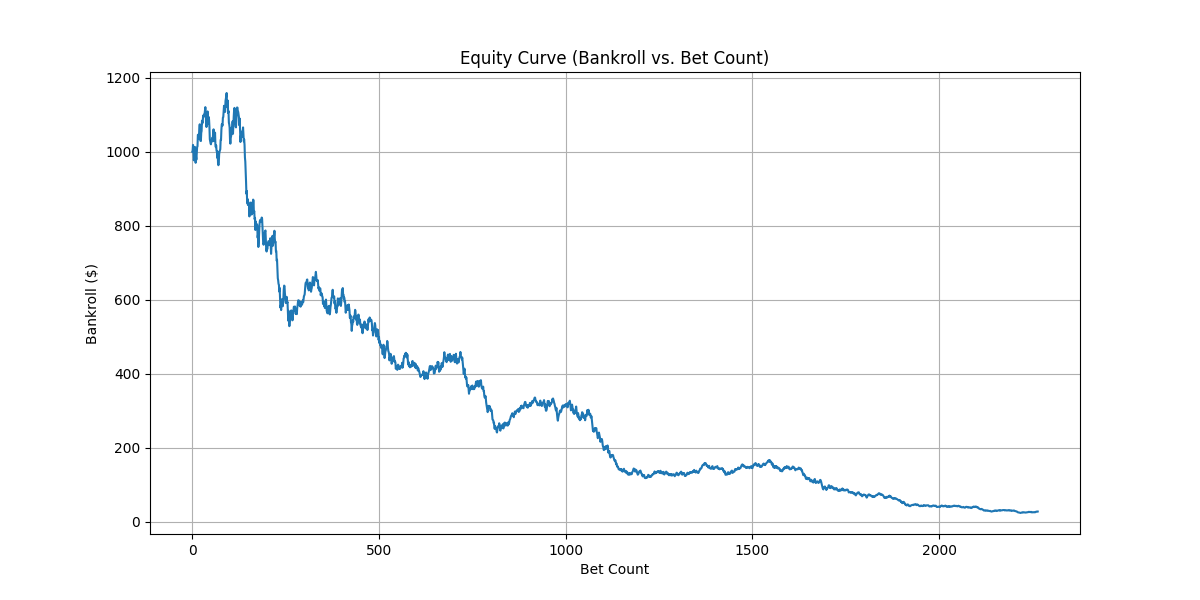
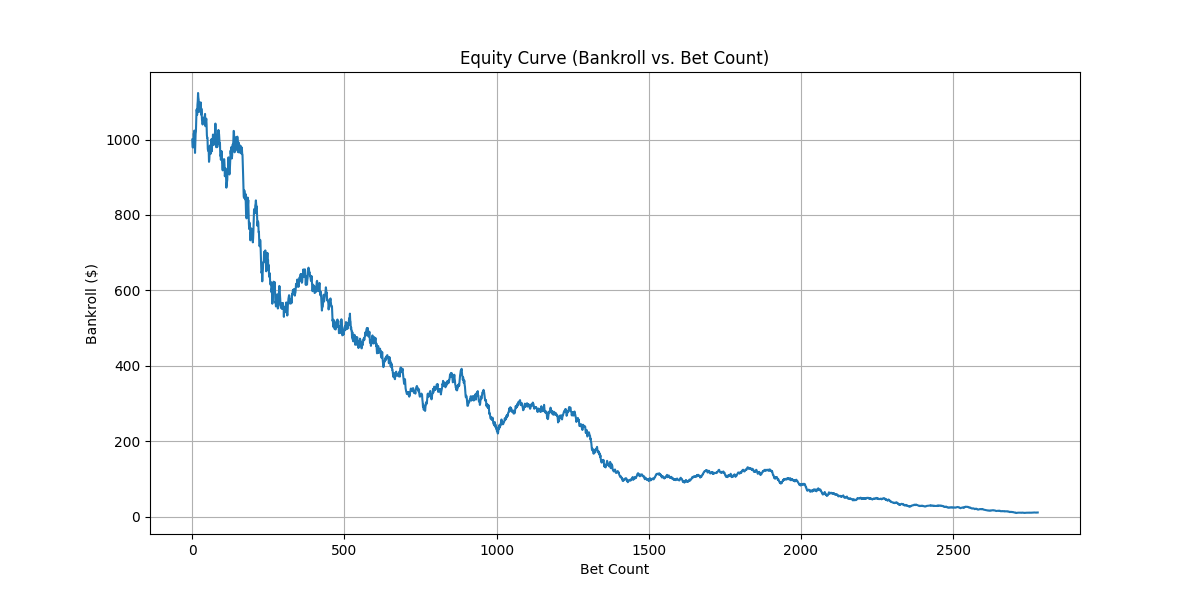
Fix data pipeline and remove redundant feature
Changes:
1. Fixed selective dropna() - only drop rows missing critical columns
   (odds/outcome), not all rows with any NaN. Recovered ~2,100 matches.

2. Removed Elo_Diff feature (0.765 correlation with Glicko_Mu_Diff).
   Kept Glicko as it's more sophisticated.

Results:
- Training data: 7,074 → 8,544 matches (+21%)
- Test data: 2,720 → 3,295 matches (+21%)
- ROI: -7.86% → -7.13% (+0.73 pp improvement)
- Features: 19 → 18

🤖 Generated with [Claude Code](https://claude.com/claude-code)

diff --git a/FINAL_BUILD/backtest_with_compounding_logic_v7.6.py b/FINAL_BUILD/backtest_with_compounding_logic_v7.6.py
@@ -154,7 +154,7 @@ try:
         'PDR_Slope_Advantage', 'H2H_Dominance_Score', 'Time_Since_Last_Advantage',
         'Matches_Last_24H_Advantage', 'Is_First_Match_Advantage',
         # New v7.4 features
-        'Elo_Diff', 'Glicko_Mu_Diff', 'Glicko_Phi_Sum', 'Clutch_Factor_Diff',
+        'Glicko_Mu_Diff', 'Glicko_Phi_Sum', 'Clutch_Factor_Diff',  # Elo_Diff removed (correlated with Glicko)
         'Pythagorean_Delta_Diff', 'PDR_Variance_Diff', 'H2H_Matches'
     ]
     df.dropna(subset=required_cols, inplace=True)    
@@ -316,8 +316,7 @@ try:
             'Win_Rate_L5_Advantage': win_rate_l5_advantage,
             'Close_Set_Win_Rate_Advantage': close_set_win_rate_advantage,
             'Set_Comebacks_Advantage': set_comebacks_advantage,
-            # New v7.4 features
-            'Elo_Diff': elo_diff,
+            # New v7.4 features (Elo_Diff removed - correlated with Glicko)
             'Glicko_Mu_Diff': glicko_mu_diff,
             'Glicko_Phi_Sum': glicko_phi_sum,
             'Clutch_Factor_Diff': clutch_factor_diff,

diff --git a/FINAL_BUILD/remove_duplicates_from_final_dataset.py b/FINAL_BUILD/remove_duplicates_from_final_dataset.py
@@ -26,8 +26,15 @@ try:
     # Print the shape after removing duplicates
     print(f"Dataset shape after removing duplicates: {df.shape}")
 
-    # --- NEW: Remove all rows with any NaN values from the testing set ---
-    df.dropna(inplace=True)
+    # --- FIXED: Only drop rows missing CRITICAL columns for betting ---
+    # Previously: df.dropna(inplace=True) dropped ALL rows with ANY NaN
+    # This was too aggressive - dropped rows missing Match Format, Set Scores, etc.
+    # which are not needed for prediction. Only drop rows missing odds or outcome.
+    critical_cols = ['Kickoff_P1_Odds', 'Kickoff_P2_Odds', 'P1_Win']
+    before_dropna = len(df)
+    df.dropna(subset=critical_cols, inplace=True)
+    after_dropna = len(df)
+    print(f"Dropped {before_dropna - after_dropna} rows missing critical columns (odds/outcome)")
 
     # Save the cleaned data to a new CSV file
     df.to_csv('final_dataset_v7.4_no_duplicates.csv', index=False)

diff --git a/FINAL_BUILD/cpr_v7.4_specialist_gbm_trainer.py b/FINAL_BUILD/cpr_v7.4_specialist_gbm_trainer.py
@@ -33,9 +33,8 @@ try:
         'Time_Since_Last_Advantage', 'Matches_Last_24H_Advantage', 'Is_First_Match_Advantage',
         'PDR_Slope_Advantage', 'H2H_P1_Win_Rate', 'H2H_Dominance_Score', 'PDR_Advantage',
         'Win_Rate_Advantage', 'Win_Rate_L5_Advantage', 'Close_Set_Win_Rate_Advantage', 'Set_Comebacks_Advantage',
-        # New v7.4 features
-        'Elo_Diff',                    # Elo rating difference
-        'Glicko_Mu_Diff',              # Glicko-2 rating difference
+        # New v7.4 features (Elo_Diff REMOVED - 0.765 correlation with Glicko_Mu_Diff)
+        'Glicko_Mu_Diff',              # Glicko-2 rating difference (kept over Elo - more sophisticated)
         'Glicko_Phi_Sum',              # Combined uncertainty
         'Clutch_Factor_Diff',          # Deuce set win rate difference
         'Pythagorean_Delta_Diff',      # Luck factor difference
